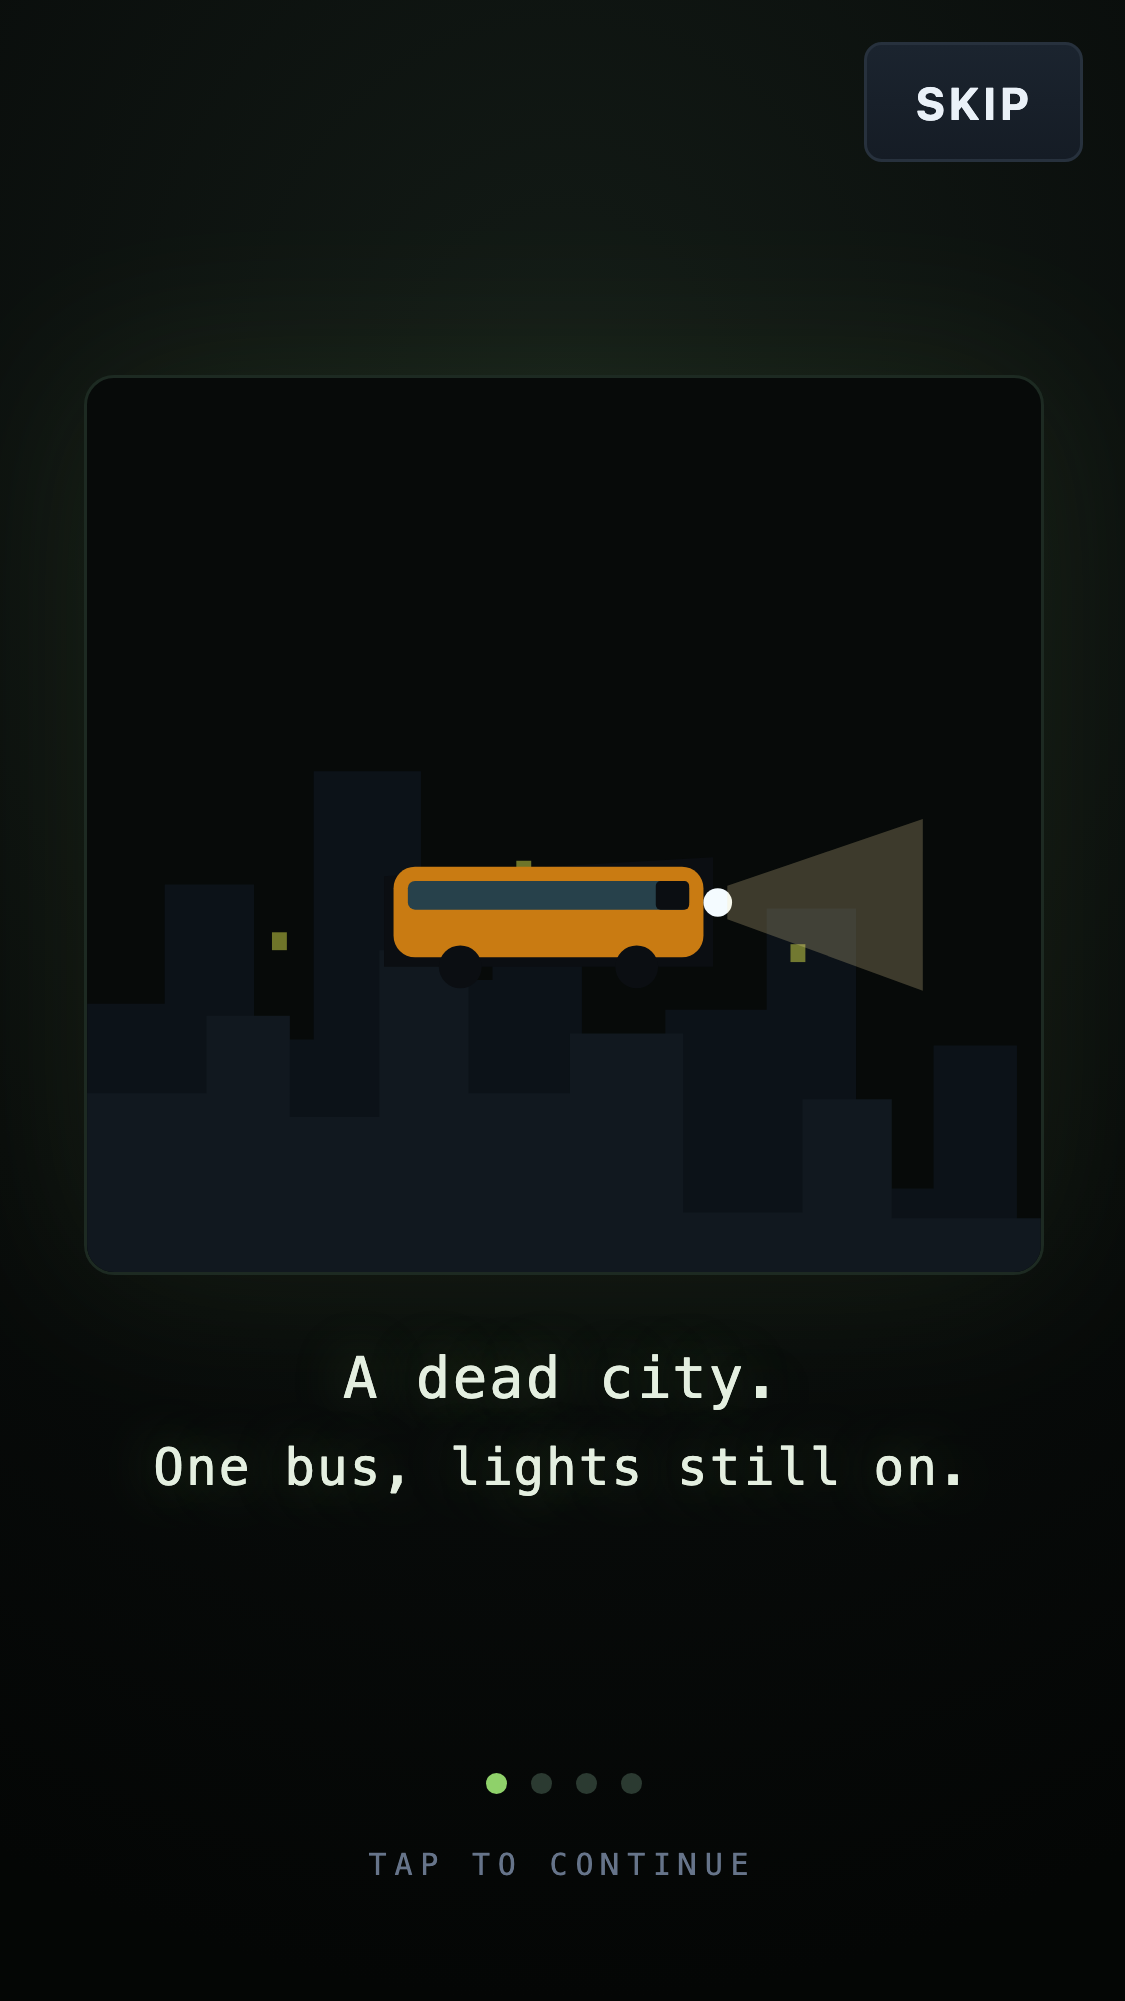
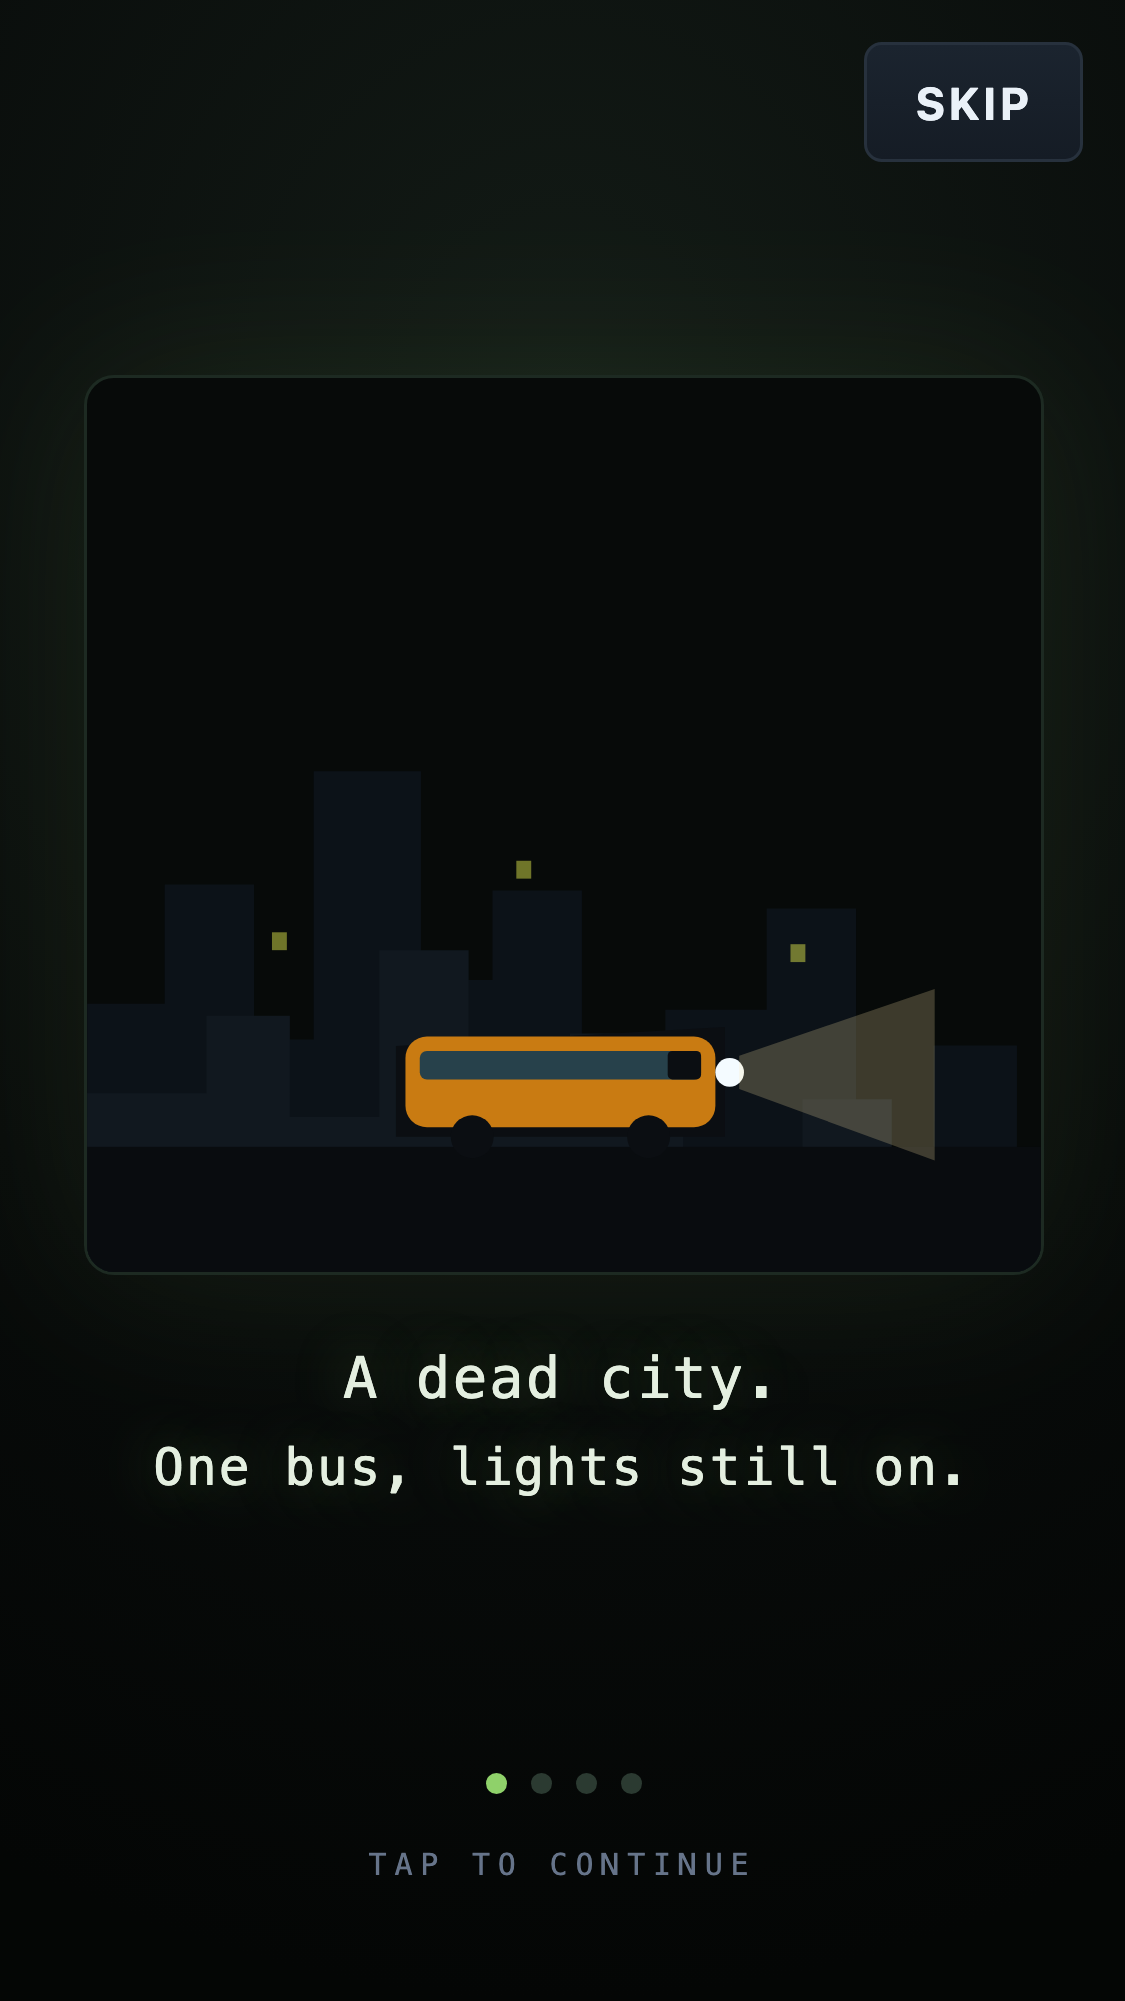
feat: English shop copy after merge, drop dead goal arrow, Swedish allowlist, cold open spec fix

Changed region(s): [[0.3422, 0.4028, 0.84, 0.5887]]

diff --git a/src/ui/shop.ts b/src/ui/shop.ts
@@ -13,12 +13,12 @@ import {
   modsFromProfile,
   SHOP_UPGRADES,
   UPGRADE_ORDER,
-  upgradeCost,
   unlockWeaponWithTickets,
   upgradeLevel,
   WEAPON_UNLOCK_COST,
   type UpgradeId,
 } from '../meta/shop';
+import { costOf } from '../meta/upgrades-v2';
 import { WEAPONS, WEAPON_ORDER } from '../sim/content';
 import { button, el, fmt, toast } from './kit';
 import type { OverlayHandle, OverlayHost } from './overlay';
@@ -37,11 +37,20 @@ export interface ShopDeps {
 }
 
 const TABS: Array<{ id: ShopTab; label: string }> = [
-  { id: 'upgrades', label: 'UPPGRADERINGAR' },
-  { id: 'weapons', label: 'VAPEN' },
-  { id: 'colours', label: 'FÄRGER' },
-  { id: 'store', label: 'BUTIK' },
+  { id: 'upgrades', label: 'UPGRADES' },
+  { id: 'weapons', label: 'WEAPONS' },
+  { id: 'colours', label: 'COLOURS' },
+  { id: 'store', label: 'STORE' },
 ];
+
+/** A price with its material named: "120 scrap", "3 parts + 2 supplies". */
+function priceLabel(id: UpgradeId, level: number): string {
+  const c = costOf(id, level);
+  const parts = ([['scrap', c.scrap], ['parts', c.parts], ['supplies', c.supplies]] as const)
+    .filter(([, n]) => n > 0)
+    .map(([name, n]) => `${fmt(n)} ${name}`);
+  return parts.length > 0 ? parts.join(' + ') : 'FREE';
+}
 
 export function openShop(deps: ShopDeps): OverlayHandle {
   let tab: ShopTab = deps.initialTab ?? 'upgrades';
@@ -52,12 +61,12 @@ export function openShop(deps: ShopDeps): OverlayHandle {
   };
   const root = el('div', 'shop sheet');
   const head = el('div', 'shop__head');
-  head.appendChild(el('h2', 'sheet__title', 'BUTIKEN'));
+  head.appendChild(el('h2', 'sheet__title', 'THE STORE'));
   const wallet = el('div', 'shop__wallet');
   const balance = el('span', 'shop__balance', walletText());
   wallet.appendChild(balance);
   if (deps.profile.weaponTokens > 0) {
-    wallet.appendChild(el('span', 'shop__tokens', `${fmt(deps.profile.weaponTokens)} vapennycklar`));
+    wallet.appendChild(el('span', 'shop__tokens', `${fmt(deps.profile.weaponTokens)} weapon keys`));
   }
   head.appendChild(wallet);
   root.appendChild(head);
@@ -70,7 +79,7 @@ export function openShop(deps: ShopDeps): OverlayHandle {
 
   const foot = el('div', 'sheet__footer');
   foot.appendChild(
-    button('STÄNG', {
+    button('CLOSE', {
       variant: 'ghost',
       onClick: () => {
         deps.audio.play('ui_click');
@@ -80,7 +89,7 @@ export function openShop(deps: ShopDeps): OverlayHandle {
   );
   root.appendChild(foot);
 
-  const handle: OverlayHandle = deps.host.push(root, { dismissable: true, label: 'Butik' });
+  const handle: OverlayHandle = deps.host.push(root, { dismissable: true, label: 'Store' });
 
   function refreshWallet(): void {
     balance.textContent = walletText();
@@ -109,15 +118,15 @@ export function openShop(deps: ShopDeps): OverlayHandle {
     const def = SHOP_UPGRADES[id];
     const level = upgradeLevel(deps.profile, id);
     const maxed = level >= def.maxLevel;
-    const cost = upgradeCost(id, level);
+    const cost = priceLabel(id, level);
     const wrap = el('div', 'shoprow');
     const info = el('div', 'shoprow__info');
-    info.appendChild(el('div', 'shoprow__title', `${def.name} · nivå ${level}/${def.maxLevel}`));
-    info.appendChild(el('div', 'shoprow__now', level > 0 ? def.description(level) : 'Ingen effekt än'));
-    if (!maxed) info.appendChild(el('div', 'shoprow__next', `Nästa: ${def.description(level + 1)}`));
+    info.appendChild(el('div', 'shoprow__title', `${def.name} · level ${level}/${def.maxLevel}`));
+    info.appendChild(el('div', 'shoprow__now', level > 0 ? def.description(level) : 'No effect yet'));
+    if (!maxed) info.appendChild(el('div', 'shoprow__next', `Next: ${def.description(level + 1)}`));
     wrap.appendChild(info);
 
-    const action = button(maxed ? 'MAX' : fmt(cost), {
+    const action = button(maxed ? 'MAX' : cost, {
       variant: maxed ? 'ghost' : 'primary',
       disabled: maxed,
       onClick: () => {
@@ -127,7 +136,7 @@ export function openShop(deps: ShopDeps): OverlayHandle {
           refreshWallet();
           render();
         } else {
-          toast('Inte tillräckligt med material', 'bad');
+          toast('Not enough materials', 'bad');
         }
       },
     });
@@ -140,19 +149,19 @@ export function openShop(deps: ShopDeps): OverlayHandle {
   function renderUpgrades(): void {
     const mods = modsFromProfile(deps.profile);
     const note = el('p', 'shop__note');
-    note.textContent = 'Permanent kraft. Gäller varje natt från och med nästa runda.';
+    note.textContent = 'Permanent upgrades. They apply to every run from the next one.';
     body.appendChild(note);
     const summary = el('div', 'shop__mods');
-    summary.textContent = `Skada +${Math.round(mods.damage * 100)}% · HP +${mods.hp} · Fart +${Math.round(
+    summary.textContent = `Damage +${Math.round(mods.damage * 100)}% · HP +${mods.hp} · Speed +${Math.round(
       mods.speed * 100,
-    )}% · Krit +${Math.round(mods.crit * 100)}% · Växel +${Math.round(mods.fares * 100)}%`;
+    )}% · Crit +${Math.round(mods.crit * 100)}% · Scrap +${Math.round(mods.fares * 100)}%`;
     body.appendChild(summary);
     for (const id of UPGRADE_ORDER) body.appendChild(upgradeRow(id));
   }
 
   function renderWeapons(): void {
     body.appendChild(
-      el('p', 'shop__note', 'Lås upp ett startvapen. Vapennycklar kommer från daglådor och paket.'),
+      el('p', 'shop__note', 'Unlock a starting weapon. Weapon keys come from daily crates and packs.'),
     );
     for (const id of WEAPON_ORDER) {
       const def = WEAPONS[id];
@@ -165,11 +174,11 @@ export function openShop(deps: ShopDeps): OverlayHandle {
       wrap.appendChild(info);
 
       if (owned) {
-        const mark = button('UPPLÅST', { variant: 'ghost', disabled: true });
+        const mark = button('UNLOCKED', { variant: 'ghost', disabled: true });
         mark.classList.add('shoprow__action');
         wrap.appendChild(mark);
       } else {
-        const buy = button(`LÅS UPP · ${fmt(WEAPON_UNLOCK_COST)}`, {
+        const buy = button(`UNLOCK · ${fmt(WEAPON_UNLOCK_COST)} scrap`, {
           variant: 'primary',
           onClick: () => {
             if (unlockWeaponWithTickets(deps.profile, id)) {
@@ -178,7 +187,7 @@ export function openShop(deps: ShopDeps): OverlayHandle {
               refreshWallet();
               render();
             } else {
-              toast('Inte tillräckligt med material', 'bad');
+              toast('Not enough materials', 'bad');
             }
           },
         });
@@ -186,7 +195,7 @@ export function openShop(deps: ShopDeps): OverlayHandle {
         wrap.appendChild(buy);
 
         if (deps.profile.weaponTokens > 0) {
-          const token = button('ANVÄND NYCKEL', {
+          const token = button('USE KEY', {
             variant: 'amber',
             onClick: () => {
               deps.profile.weaponTokens -= 1;
@@ -206,7 +215,7 @@ export function openShop(deps: ShopDeps): OverlayHandle {
   }
 
   function renderColours(): void {
-    body.appendChild(el('p', 'shop__note', 'Kosmetik. Ingen tur, inga lådor — du ser vad du får.'));
+    body.appendChild(el('p', 'shop__note', 'Cosmetic only. No luck, no crates. You see what you get.'));
     for (const colour of COLOURS) {
       const owned = deps.profile.colours.includes(colour.id);
       const active = deps.profile.activeColour === colour.id;
@@ -216,15 +225,15 @@ export function openShop(deps: ShopDeps): OverlayHandle {
       wrap.appendChild(swatch);
       const info = el('div', 'shoprow__info');
       info.appendChild(el('div', 'shoprow__title', colour.name));
-      info.appendChild(el('div', 'shoprow__now', active ? 'Aktiv' : owned ? 'Ägd' : `${fmt(colour.cost)} Biljetter`));
+      info.appendChild(el('div', 'shoprow__now', active ? 'Active' : owned ? 'Owned' : `${fmt(colour.cost)} scrap`));
       wrap.appendChild(info);
 
       if (active) {
-        const mark = button('VALD', { variant: 'ghost', disabled: true });
+        const mark = button('SELECTED', { variant: 'ghost', disabled: true });
         mark.classList.add('shoprow__action');
         wrap.appendChild(mark);
       } else if (owned) {
-        const pick = button('VÄLJ', {
+        const pick = button('SELECT', {
           variant: 'primary',
           onClick: () => {
             buyColour(deps.profile, colour.id);
@@ -245,7 +254,7 @@ export function openShop(deps: ShopDeps): OverlayHandle {
               refreshWallet();
               render();
             } else {
-              toast('Inte tillräckligt med material', 'bad');
+              toast('Not enough materials', 'bad');
             }
           },
         });
@@ -261,7 +270,7 @@ export function openShop(deps: ShopDeps): OverlayHandle {
       el(
         'p',
         'shop__note',
-        deps.profile.removeAds ? 'Mellanannonser: AV (köpt). Belönade annonser finns kvar.' : 'Mellanannonser: PÅ.',
+        deps.profile.removeAds ? 'Interstitial ads: OFF (purchased). Rewarded ads stay, always optional.' : 'Interstitial ads: ON.',
       ),
     );
     for (const sku of IAP_ORDER) {
@@ -271,7 +280,7 @@ export function openShop(deps: ShopDeps): OverlayHandle {
       const info = el('div', 'shoprow__info');
       info.appendChild(el('div', 'shoprow__title', product.title));
       info.appendChild(el('div', 'shoprow__now', product.description));
-      if (product.tickets > 0) info.appendChild(el('div', 'shoprow__next', `${fmt(product.tickets)} Biljetter`));
+      if (product.tickets > 0) info.appendChild(el('div', 'shoprow__next', `${fmt(product.tickets)} scrap`));
       wrap.appendChild(info);
 
       const buy = button(formatSek(product.priceSek), {
@@ -285,7 +294,7 @@ export function openShop(deps: ShopDeps): OverlayHandle {
               refreshWallet();
               render();
             } else {
-              toast('Köpet gick inte igenom', 'bad');
+              toast('Purchase failed', 'bad');
               buy.disabled = false;
             }
           });
@@ -296,7 +305,7 @@ export function openShop(deps: ShopDeps): OverlayHandle {
       body.appendChild(wrap);
     }
 
-    const restore = button('ÅTERSTÄLL KÖP', {
+    const restore = button('RESTORE PURCHASES', {
       variant: 'ghost',
       onClick: () => {
         deps.onRestore();
@@ -310,8 +319,8 @@ export function openShop(deps: ShopDeps): OverlayHandle {
     const vip = el('p', 'shop__note shop__note--dim');
     vip.textContent =
       deps.profile.vipUntil > Date.now()
-        ? 'Nattkort aktivt: +25% växel och uppgraderad daglåda.'
-        : 'Nattkort: 24 timmar, +25% växel och uppgraderad daglåda.';
+        ? 'Night pass active: +25% scrap and an upgraded daily crate.'
+        : 'Night pass: 24 hours, +25% scrap and an upgraded daily crate.';
     body.appendChild(vip);
   }
 

diff --git a/src/render/objective.ts b/src/render/objective.ts
@@ -1,11 +1,11 @@
 /**
- * v2 map objective visuals: fuel canisters, the bus and a screen-edge arrow toward the next goal.
+ * v2 map objective visuals: fuel canisters and the bus.
  * Placeholder silhouettes in the existing style (ink outline, rim light, additive glow).
  */
 import { BUS_RADIUS } from '../sim/objective';
 import { PLAYER_RADIUS } from '../sim/state';
 import type { Draw } from './draw';
-import { screenX, screenY, visible } from './draw';
+import { visible } from './draw';
 import { PAL, SPRITE_INK } from './palette';
 import { drawPickupIcon } from './pickups';
 import { drawGlow, glowSprite } from './sprites';
@@ -176,51 +176,4 @@ export function drawObjective(d: Draw): void {
     if (c.active && visible(d, c.x, c.y, 30)) drawCanister(d, c.x, c.y);
   }
   if (visible(d, st.bus.x, st.bus.y, BUS_W)) drawBus(d);
-}
-
-/** Screen pass: an arrow at the viewport edge toward the bus (quota met) or the nearest canister. */
-export function drawGoalArrow(d: Draw): void {
-  const st = d.state;
-  if (st.status !== 'running') return;
-  let tx = st.bus.x;
-  let ty = st.bus.y;
-  if (!st.quotaMet) {
-    let best = Number.POSITIVE_INFINITY;
-    let found = false;
-    for (const c of st.canisters) {
-      if (!c.active) continue;
-      const dist = Math.hypot(c.x - st.player.x, c.y - st.player.y);
-      if (dist < best) {
-        best = dist;
-        tx = c.x;
-        ty = c.y;
-        found = true;
-      }
-    }
-    if (!found) return;
-  }
-  if (visible(d, tx, ty, -20)) return;
-  const ctx = d.ctx;
-  const cx = d.vp.x + d.vp.w / 2;
-  const cy = d.vp.y + d.vp.h / 2;
-  const ang = Math.atan2(screenY(d, ty) - cy, screenX(d, tx) - cx);
-  const rx = d.vp.w / 2 - 26;
-  const ry = d.vp.h / 2 - 90;
-  const k = 1 / Math.hypot(Math.cos(ang) / rx, Math.sin(ang) / ry);
-  ctx.save();
-  ctx.translate(cx + Math.cos(ang) * k, cy + Math.sin(ang) * k);
-  ctx.rotate(ang);
-  ctx.globalAlpha = 0.9;
-  ctx.fillStyle = st.quotaMet ? PAL.green : PAL.amber;
-  ctx.strokeStyle = SPRITE_INK;
-  ctx.lineWidth = 2;
-  ctx.beginPath();
-  ctx.moveTo(12, 0);
-  ctx.lineTo(-8, -9);
-  ctx.lineTo(-4, 0);
-  ctx.lineTo(-8, 9);
-  ctx.closePath();
-  ctx.stroke();
-  ctx.fill();
-  ctx.restore();
 }

diff --git a/src/render/index.ts b/src/render/index.ts
@@ -19,7 +19,7 @@ import { PostFx, drawHurtVeil, drawPauseVeil, resetPost } from './post';
 import { drawGlow, glowSprite } from './sprites';
 import { drawStick } from './stick';
 import { clamp, rgba } from './util';
-import { drawGoalArrow, drawObjective } from './objective';
+import { drawObjective } from './objective';
 import { EffectTrails, WeaponFx, drawAreaEffects, drawEnemyShots, drawOrbs, drawProjectiles, drawWeaponSystems } from './weapons';
 
 export interface StickVisual {
@@ -237,7 +237,6 @@ class RendererImpl implements Renderer {
     this.post.draw(d);
     drawHurtVeil(d);
     drawStick(d);
-    drawGoalArrow(d);
     if (this.fx.boss > 0.01) this.drawBossPulse(d);
     if (state.status !== 'running' && !view.dimmed) this.drawStatusBand(d);
     if (this.fx.evolve > 0.01) this.drawEvolutionBanner(d);

diff --git a/src/meta/shop.ts b/src/meta/shop.ts
@@ -97,10 +97,10 @@ export interface ColourDef {
 }
 
 export const COLOURS: ColourDef[] = [
-  { id: 'standard', name: 'Regnjacka', tint: '#7fd7ff', cost: 0 },
-  { id: 'amber', name: 'Natriumgul', tint: '#f5a524', cost: 300 },
-  { id: 'green', name: 'Bussgrön', tint: '#3ddc97', cost: 300 },
-  { id: 'red', name: 'Bromsröd', tint: '#ff4d5e', cost: 450 },
+  { id: 'standard', name: 'Raincoat', tint: '#7fd7ff', cost: 0 },
+  { id: 'amber', name: 'Sodium Yellow', tint: '#f5a524', cost: 300 },
+  { id: 'green', name: 'Bus Green', tint: '#3ddc97', cost: 300 },
+  { id: 'red', name: 'Brake Red', tint: '#ff4d5e', cost: 450 },
 ];
 
 export function buyColour(profile: Profile, id: string): boolean {

diff --git a/tests/e2e/coldopen.spec.ts b/tests/e2e/coldopen.spec.ts
@@ -43,6 +43,9 @@ test('plays four frames on first launch, once, then replays from Settings', asyn
   await expect(page.locator('[data-screen="menu"]')).toBeVisible();
   await expect(page.locator('.coldopen')).toHaveCount(0);
 
+  // The first-run intro card (menu.ts, #16's copy) sits over a fresh menu; close it by role, not by its text.
+  await page.locator('[data-screen="intro"] button').click();
+
   // Replay from Settings, skip at once, and the game underneath is untouched.
   await page.locator('.menu__nav-item').nth(3).click();
   await page.getByRole('button', { name: 'REPLAY' }).click();

diff --git a/tests/e2e/game.spec.ts b/tests/e2e/game.spec.ts
@@ -26,7 +26,7 @@ test.describe('Sista Bussen', () => {
     const intro = page.locator('.intro');
     if (await intro.isVisible()) {
       await page.screenshot({ path: 'screenshots/00-intro.png' });
-      await page.getByRole('button', { name: 'GOT IT' }).click();
+      await page.getByRole('button', { name: 'UPPFATTAT' }).click();
       await expect(intro).toHaveCount(0);
       await page.waitForTimeout(250);
     }

diff --git a/tests/english.test.ts b/tests/english.test.ts
@@ -13,6 +13,8 @@ import { COLD_OPEN_FRAMES, INTRO_ITEMS } from '../src/ui/intro';
 const FLOW_TICKET_FILES = new Set([
   '/src/game.ts',
   '/src/main.ts',
+  // Revive and double-scrap titles are #16's rewrite; the rest of catalog.ts waits for it too.
+  '/src/monetize/catalog.ts',
   '/src/ui/hud.ts',
   '/src/ui/menu.ts',
   '/src/ui/route.ts',
